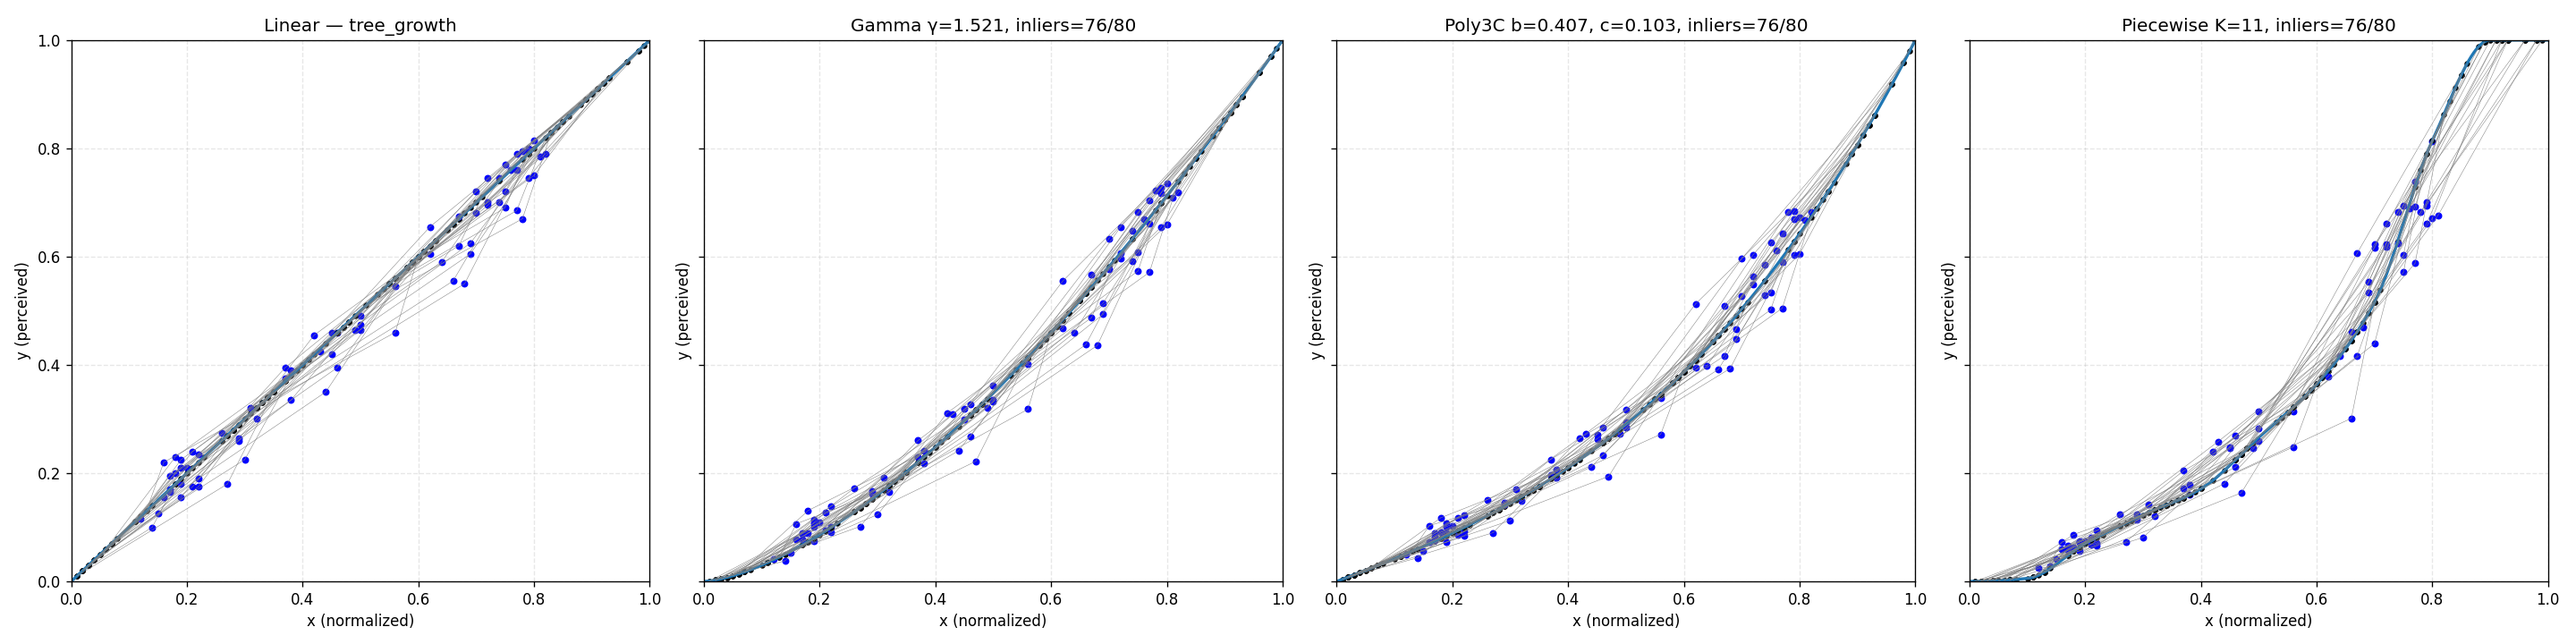
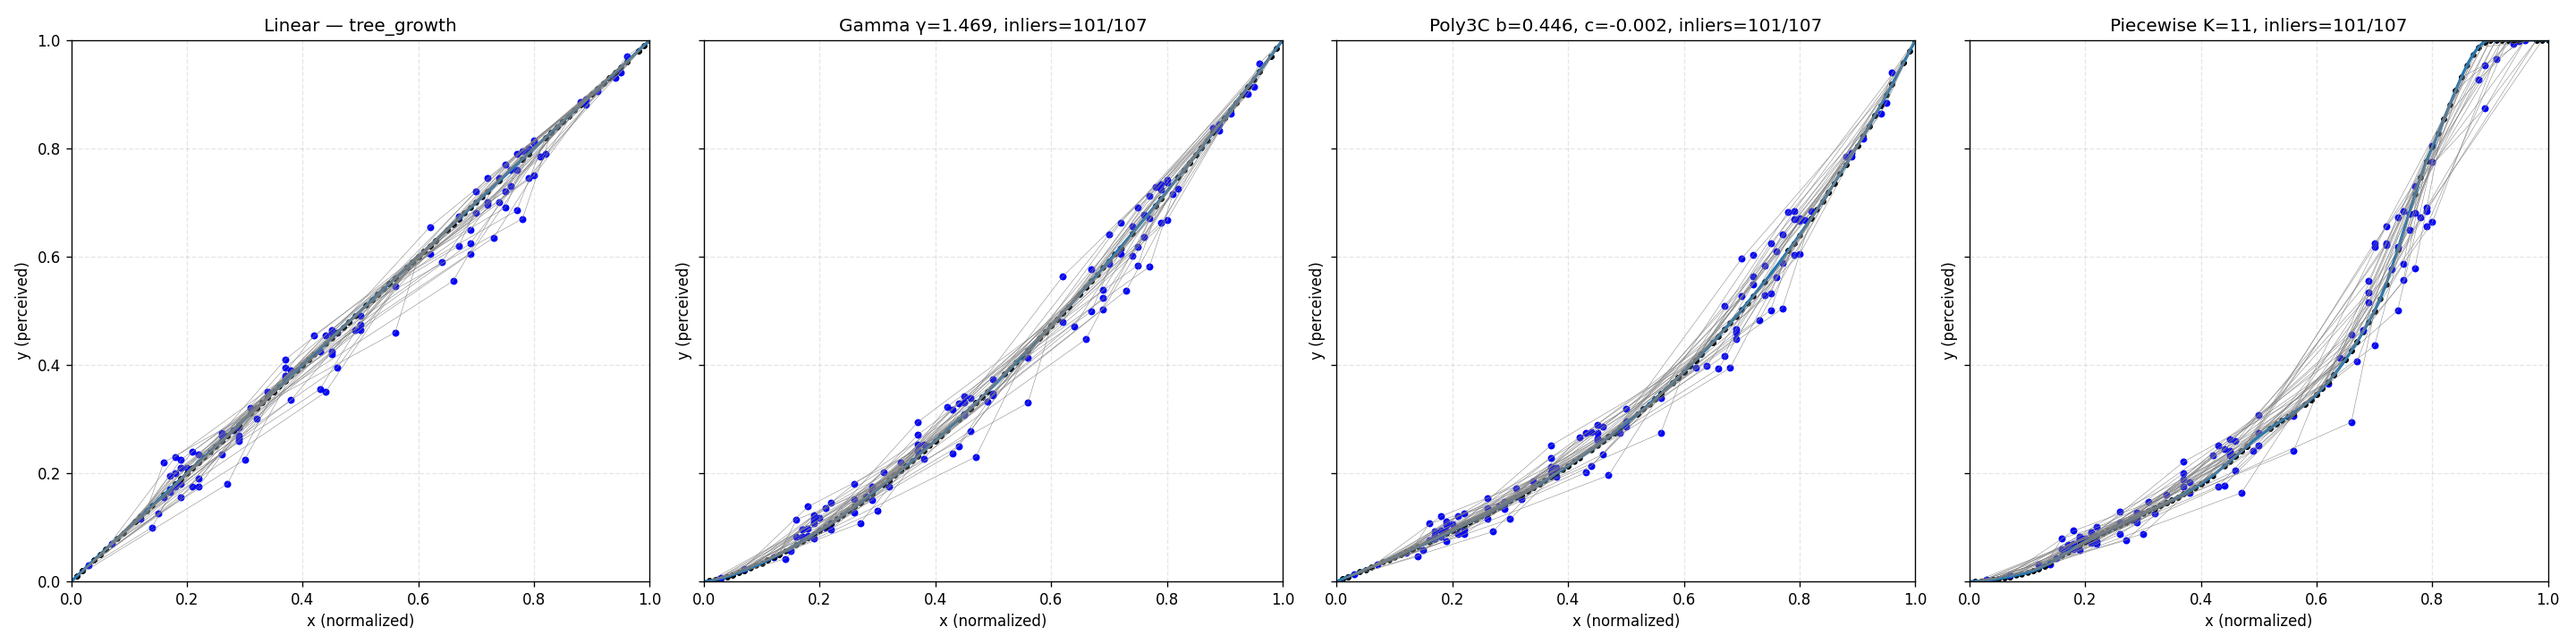
perform gamma correction on tree_growth glyph

diff --git a/app/app.py b/app/app.py
@@ -4,46 +4,21 @@ import mglyph as mg
 import os, random
 from PyQt5 import QtCore, QtGui, QtWidgets
 from io import BytesIO
-import json
 
 from glyph_set import SIMPLE_GLYPHS, ADVANCED_GLYPHS
 
 SEED = None
 random.seed(SEED)
-N = 20 # pocet opakovani kazdeho glyphu
+N = 27 # pocet opakovani kazdeho glyphu
 
 PATH = os.path.dirname(os.path.abspath(""))
 print(PATH)
 
 EXPERIMENTAL_OUTPUT_DIR = os.path.join(PATH, "data/user_data_sets/")
-FIT_POLY3_OUTPUT_DIR = os.path.join(PATH, "data/user_data_sets/fit_poly3/")
-
-EXPERIMENTAL_MODE = True
-FIT_TO_POLY3_MODE = False
 
 # ZDE MUZE BYT VOLBA MEZI SIMPLE A ADVANCED GLYPHS
-USE_ADVANCED = False 
+USE_ADVANCED = True 
 glyphs = {**ADVANCED_GLYPHS} if USE_ADVANCED else {**SIMPLE_GLYPHS}
-
-#POLY3C_JSON = os.path.join(PATH, "data/data_processing_output/poly3c_params_by_glyph.json")
-
-#with open(POLY3C_JSON, "r", encoding="utf-8") as f:
-    #POLY3C_PARAMS = json.load(f)
-
-def poly3c_f(x01, b, c):
-    return b*x01 + c*(x01**2) + (1.0 - b - c)*(x01**3)
-
-def poly3c_inv_bisect(p, b, c, iters=40):
-    # p i výstup jsou v [0,1]
-    p = max(0.0, min(1.0, float(p)))
-    lo, hi = 0.0, 1.0
-    for _ in range(iters):
-        mid = 0.5 * (lo + hi)
-        if poly3c_f(mid, b, c) < p:
-            lo = mid
-        else:
-            hi = mid
-    return 0.5 * (lo + hi)
 
 
 def render_png(glyph_type: str, x: float) -> bytes:
@@ -261,11 +236,6 @@ class GlyphWidget(QtWidgets.QWidget):
         if glyph_type in glyphs:
             self.glyph_type = glyph_type
 
-            #if FIT_TO_POLY3_MODE:
-                #bc = POLY3C_PARAMS.get(glyph_type)
-                
-                #self.poly_b, self.poly_c = bc["b"], bc["c"]
-
             self.update_image()
         else:
             raise ValueError(f"Unknown glyph type: {glyph_type}")
@@ -279,33 +249,12 @@ class GlyphWidget(QtWidgets.QWidget):
     def wheelEvent(self, event):
         if not self.editable:
             return
-        
-        if EXPERIMENTAL_MODE:
-            step = 1
-            delta = step if event.angleDelta().y() > 0 else -step
-            self.set_value(min(100, max(1, self.value + delta)))
-            #print(f"{self.value}")
-            self.update_image()
-        
-        if FIT_TO_POLY3_MODE:
-            #print("poly3")
-            sign = 1 if event.angleDelta().y() > 0 else -1
 
-            x0 = self.value / 100.0
-
-            p = poly3c_f(x0, self.poly_b, self.poly_c)
-
-            #print(self.poly_b, self.poly_c)
-
-            dp = 0.01
-            p_new = p + sign * dp
-
-            x0_new = poly3c_inv_bisect(p_new, self.poly_b, self.poly_c)
-
-            self.set_value(x0_new * 100)
-            #print(f"{self.value:.2f}")
-            self.update_image()
-            
+        step = 1
+        delta = step if event.angleDelta().y() > 0 else -step
+        self.set_value(min(100, max(1, self.value + delta)))
+        #print(f"{self.value}")
+        self.update_image()
 
 app = QtWidgets.QApplication(sys.argv)
 window = MainWindow()

diff --git a/app/glyph_set.py b/app/glyph_set.py
@@ -576,6 +576,23 @@ def ripple_wave_glyph(x: float, canvas: mg.Canvas) -> None:
         canvas.line(points[idx], points[idx + 1], color='navy', width='15p', linecap='round')
 
 
+# --------------------------- MODEL FIT -------------------------
+def ui_to_x(u, gamma):
+    u = max(1, min(100, int(u)))
+    p = u / 100.0
+    x = 100.0 * (p ** (1.0 / gamma))
+    return x
+
+GAMMA = 1.469
+
+def tree_growth_gamma(u: float, canvas: mg.Canvas) -> None:
+    # u = "UI hodnota" 0..100 nebo 1..100 (podle toho co používáš)
+    # převedeme na fyzické x
+    p = max(0.0, min(1.0, u / 100.0))
+    x = 100.0 * (p ** (1.0 / GAMMA))
+    tree_growth(x, canvas)
+
+
 SIMPLE_GLYPHS = {
     "line": horizontal_line,
     "square": simple_scaled_square,
@@ -585,11 +602,12 @@ SIMPLE_GLYPHS = {
 }
 
 ADVANCED_GLYPHS = {
-    "sun": sun_graph,
+    #"sun": sun_graph,
     "tree_growth": tree_growth,
-    "flower": flower,
-    "circular_progressbar": circular_progressbar_ticks_color,
-    "beer": beer_glyph,
-    "candle": candle_glyph,
-    "ripple_wave": ripple_wave_glyph,
+    #"flower": flower,
+    #"circular_progressbar": circular_progressbar_ticks_color,
+    #"beer": beer_glyph,
+    #"candle": candle_glyph,
+    #"ripple_wave": ripple_wave_glyph,
+    "tree_growth_gamma": tree_growth_gamma,
 }
